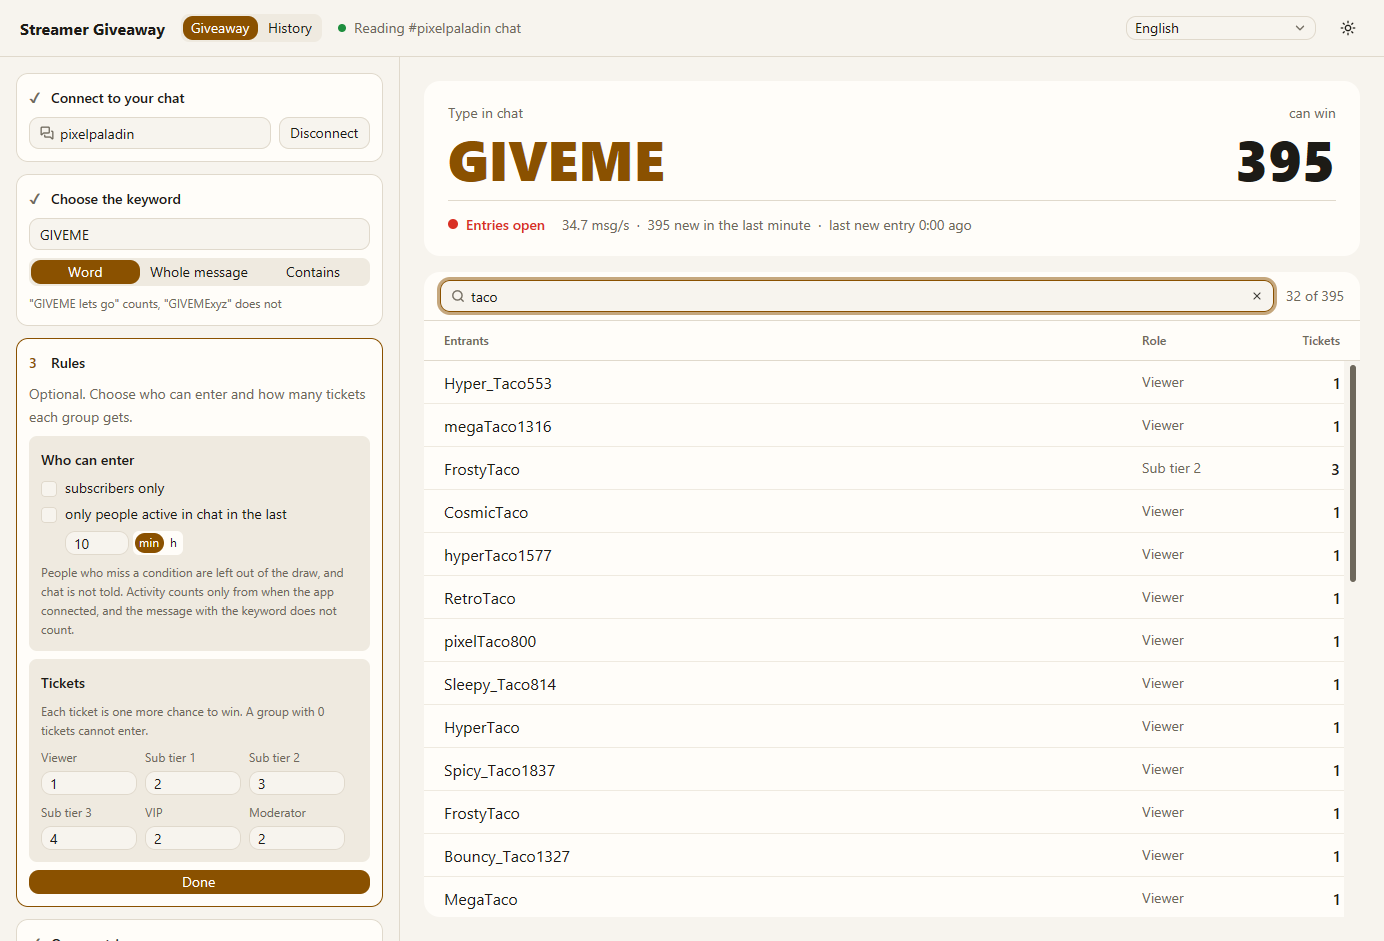
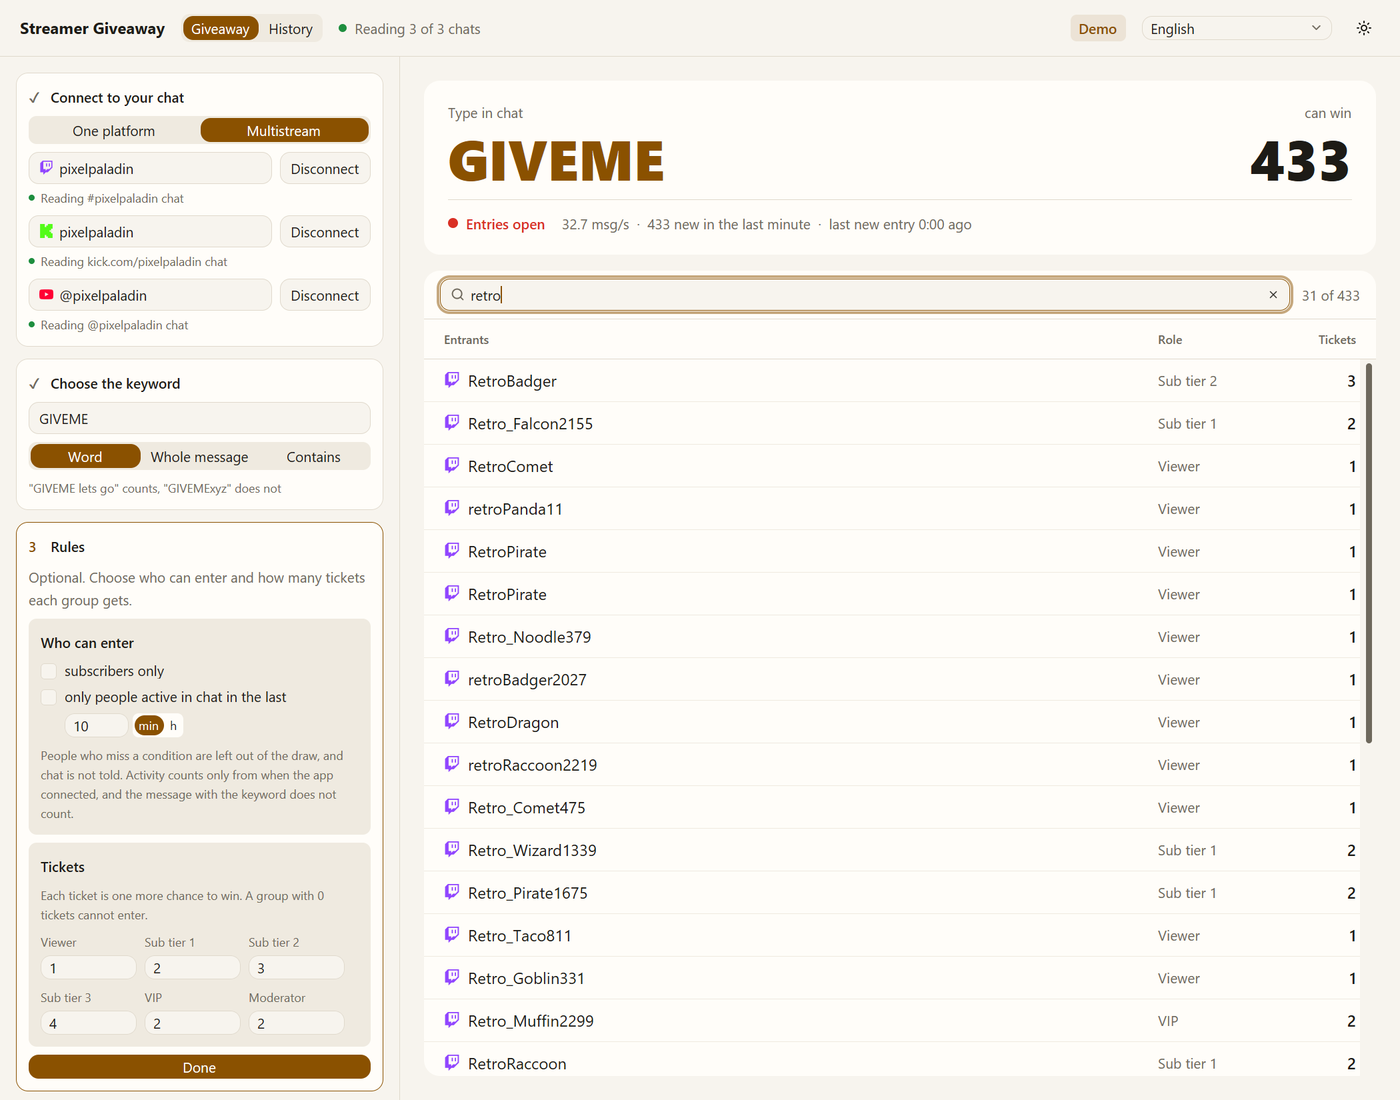
docs: show multistream in the readme screenshots and gif

diff --git a/README.md b/README.md
@@ -46,14 +46,12 @@ login or a browser source.
   follow your system settings until you pick one in the header, and "Auto" or "System" goes back
   to that.
 
-| Entries coming in (8000-viewer demo) | Winner answered | Rules and search, light theme |
+| Entries from Twitch, Kick and YouTube | Winner answered | Rules and search, light theme |
 |---|---|---|
 | ![Entries](docs/entries-dark.png) | ![Winner](docs/winner-dark.png) | ![Rules and search](docs/rules-search-light.png) |
 
-Multistream: Twitch, Kick and YouTube chats feed one giveaway, and each entrant shows the logo of
-their chat.
-
-![Multistream with three chats](docs/multistream-dark.png)
+In Multistream, Twitch, Kick and YouTube chats feed one giveaway, and each entrant shows the logo
+of their chat.
 
 ## Try it without a stream
 
